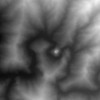
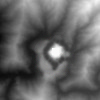
modifica heightmap

Changed region(s): [[0.36, 0.36, 0.72, 0.72]]

diff --git a/Heightmap_Prototype.html b/Heightmap_Prototype.html
@@ -101,7 +101,7 @@
 
 			}
 			// load img source
-			img.src = "images/machu_picchu4.jpg";
+			img.src = "images/machu_picchu3.jpg";
 
 			// set-up scena
 			game = new SnakeGame(178.5,611,35.5);
@@ -151,20 +151,20 @@
 			/*************************************************
 			*************************************************/
 
-			var texture_bottom = textureLoader.load( './textures/minecraft2/bottom.jpg' );
-			var texture_cx1 = textureLoader.load( './textures/minecraft2/front.jpg' );
-			var texture_cx2 = textureLoader.load( './textures/minecraft2/front.jpg' );
-			var texture_cx3 = textureLoader.load( './textures/minecraft2/front.jpg' );
-			var texture_cx4 = textureLoader.load( './textures/minecraft2/front.jpg' );
-			var texture_top = textureLoader.load( './textures/minecraft2/top.jpg' );
+			var ground_bottom = textureLoader.load( './textures/minecraft2/bottom.jpg' );
+			var ground_side = textureLoader.load( './textures/minecraft2/front.jpg' );
+			var ground_top = textureLoader.load( './textures/minecraft2/top.jpg' );
+			ground_side.wrapT = THREE.RepeatWrapping;
+			ground_side.wrapS = THREE.RepeatWrapping;
+			ground_side.repeat.set( 1, 6 );
 
 			var ground_materials = [
-			    new THREE.MeshBasicMaterial( { map: texture_cx1 } ),
-			    new THREE.MeshBasicMaterial( { map: texture_cx2 } ),
-			    new THREE.MeshBasicMaterial( { map: texture_top } ),
-			    new THREE.MeshBasicMaterial( { map: texture_bottom } ),
-			    new THREE.MeshBasicMaterial( { map: texture_cx3 } ),
-			    new THREE.MeshBasicMaterial( { map: texture_cx4 } )
+			    new THREE.MeshBasicMaterial( { map: ground_side } ),
+			    new THREE.MeshBasicMaterial( { map: ground_side } ),
+			    new THREE.MeshBasicMaterial( { map: ground_top } ),
+			    new THREE.MeshBasicMaterial( { map: ground_bottom } ),
+			    new THREE.MeshBasicMaterial( { map: ground_side } ),
+			    new THREE.MeshBasicMaterial( { map: ground_side } )
 			];
 			var ground_material = new THREE.MeshFaceMaterial( ground_materials );
 
@@ -189,6 +189,9 @@
 
 			var hill_top = textureLoader.load( './textures/hill/top.jpg' );
 			var hill_side = textureLoader.load( './textures/hill/side.jpg' );
+			hill_side.wrapT = THREE.RepeatWrapping;
+			hill_side.wrapS = THREE.RepeatWrapping;
+			hill_side.repeat.set( 1, 6 );
 
 			var hill_materials = [
 			    new THREE.MeshBasicMaterial( { map: hill_side } ),
@@ -226,18 +229,18 @@
 
 				var mat = materials[exist];
 
-				/*
-				var mat = new THREE.MeshBasicMaterial( {color: 0xcfcfcf});
+				
+				// var mat = new THREE.MeshBasicMaterial( {color: 0xcfcfcf});
 
 				if (d[i]<5){
 					mat = water_material;
 				} else if (d[i]<10){
 					mat = ground_material;
 				} else if (d[i]<15){
-					mat = hill_material;
+					// mat = hill_material;
 				} else if (d[i]){
-					mat = rock_material;
-				}*/
+					// mat = rock_material;
+				}
 
 				var cube = new THREE.Mesh( geometry, mat );
 

diff --git a/obj/arrow.js b/obj/arrow.js
@@ -1,0 +1,36 @@
+
+
+function Arrow (x, z){
+	this.geometry = new THREE.BoxGeometry(1,1,1);
+	this.body = new THREE.Object3D();
+	material = new THREE.MeshBasicMaterial( { color: 0xff0000, transparent: true, opacity: 0.2 } );
+	arrow = this.createArrow(5,7,material);
+	arrow.position.set(x,0,z);
+	this.body.add(arrow);
+	
+}
+
+Arrow.prototype.createArrow = function (cono, gambo, material){
+	pivot = new THREE.Object3D();
+
+	for (var i = 0; i < cono; i++) {
+		pivot.add(this.createCircle(i, i+0.5, material));
+	}
+	for (var i = 0; i < gambo; i++) {
+		pivot.add(this.createCircle(i+cono, Math.floor(cono/5), material));
+	}
+	return pivot;
+}
+
+Arrow.prototype.createCircle = function (y, halfEdge, material){
+	var base = new THREE.Object3D();
+	for (var i = -halfEdge; i <halfEdge; i++){
+		for (var j = -halfEdge; j < halfEdge; j++) {
+			var block = new THREE.Mesh( this.geometry, material );
+			base.add(block);
+			block.position.set(i,y,j);
+		}		
+	}
+
+	return base;
+}

diff --git a/SceneObject_Prototype.html b/SceneObject_Prototype.html
@@ -22,7 +22,7 @@
 		<script src="lib/OrbitControls.js"></script>
 		<!-- <script src="obj/tree.js"></script> -->
 		<!-- <script src="obj/chicken.js"></script> -->
-		<script src="obj/arena.js"></script>
+		<script src="obj/arrow.js"></script>
 		<script src="config.js"></script>
 	</head>
 	<body>
@@ -60,8 +60,8 @@
 
 
 			// var tree = new Tree();
-			var arena = new Arena(0,3,0);
-			scene.add(arena.floor);
+			var arrow = new Arrow(0,0);
+			scene.add(arrow.body);
 		}
 		
 		function Update() {
